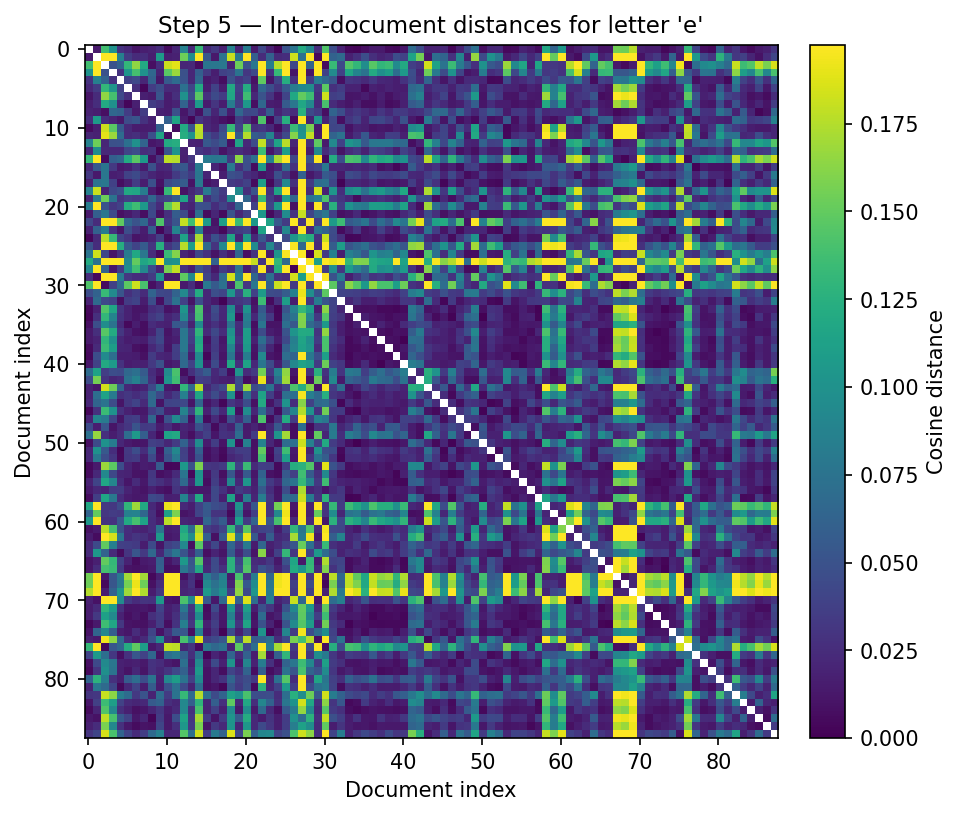
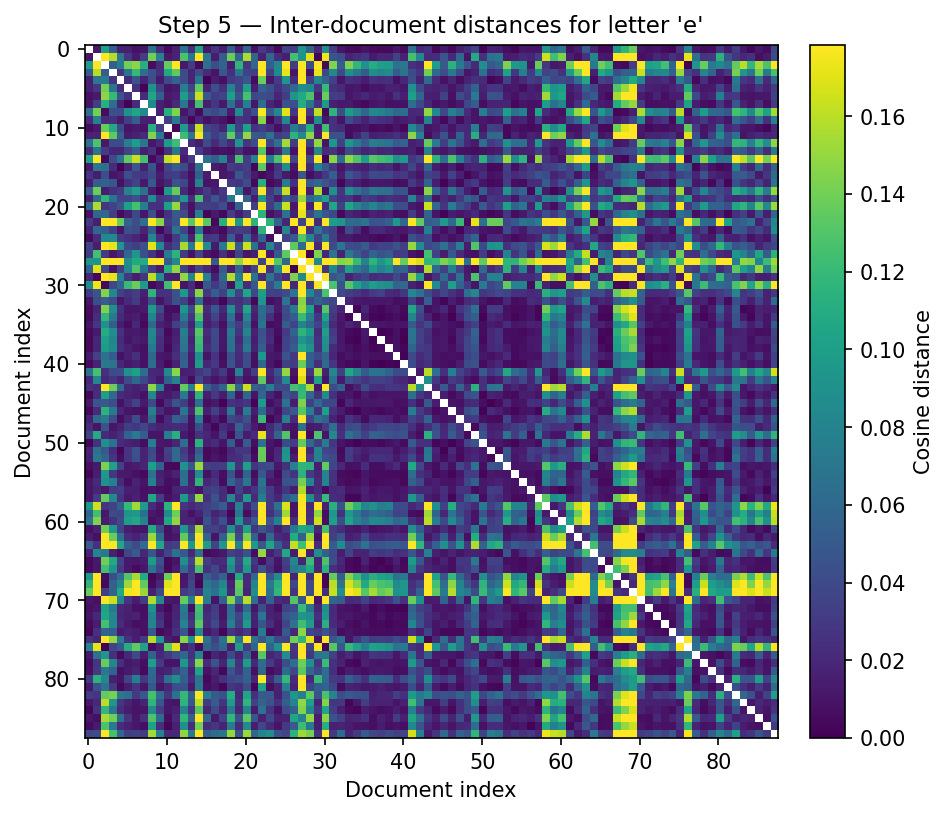
fix plots of corpus-2 and

diff --git a/scripts/run_acontrario.py b/scripts/run_acontrario.py
@@ -60,6 +60,10 @@ DEFAULT_CONFIG: dict = {
             "base_factors": [0.1, 0.15],
             "exponent_range": [-5, 3],
         },
+        # Which weight matrix to use for the hierarchical ordering & graph
+        # distances: "average" (roman+italic)/2, "roman", or "italic".
+        # Falls back gracefully when the chosen style is unavailable.
+        "ordering": "average",
     },
     "printers": {
         "colors": {},
@@ -81,6 +85,12 @@ DEFAULT_CONFIG: dict = {
             "xticks_rotation": "vertical",
             "colorbar": True,
             "colorbar_step": 5,
+            "marker_edge_color": "white",
+            "marker_edge_width": 0.4,
+            "marker_sizes": {},
+            "legend_marker_size": 250,
+            "legend_fontsize": "xx-large",
+            "legend_loc": "upper right",
         },
         "graph": {
             "figsize": [20, 15],
@@ -93,6 +103,10 @@ DEFAULT_CONFIG: dict = {
             "font_size": 9,
             "shift_dir": "nw",
             "shift_len": 0.1,
+            "edge_width": 0.5,
+            "legend_marker_size": 120,
+            "legend_fontsize": "x-large",
+            "legend_loc": "upper right",
         },
     },
     "output": {
@@ -118,7 +132,7 @@ def load_config(config_path: Path | None) -> dict:
     """Load YAML config, falling back to built‑in defaults."""
     config = DEFAULT_CONFIG.copy()
     if config_path and config_path.exists():
-        with open(config_path) as f:
+        with open(config_path, encoding="utf-8") as f:
             user = yaml.safe_load(f) or {}
         config = _deep_merge(config, user)
     return config
@@ -147,11 +161,25 @@ def _intersect_books(
 def _shorten_printer_names(
     names: np.ndarray,
     mode: str = "last_word",
+    short_names: dict | None = None,
 ) -> np.ndarray:
-    """Shorten printer names for display."""
-    if mode == "last_word":
-        return np.array([n.split()[-1] if n else n for n in names])
-    return names  # "full" or unrecognised → keep as‑is
+    """Shorten printer names for display.
+
+    If *short_names* is a dict, it is used as an explicit lookup table
+    (full name → display name).  Any name not in the dict falls through
+    to the *mode* rule.
+    """
+    if short_names is None:
+        short_names = {}
+    out = []
+    for n in names:
+        if n in short_names:
+            out.append(short_names[n])
+        elif mode == "last_word" and n:
+            out.append(n.split()[-1])
+        else:
+            out.append(n)
+    return np.array(out)
 
 
 # ---------------------------------------------------------------------------
@@ -264,9 +292,16 @@ def process_corpus(
 
     # ---- Shorten printer names for display ----
     short_mode = config["printers"].get("short_name", "last_word")
-    printers = _shorten_printer_names(printers_raw, short_mode)
+    short_names = config["printers"].get("short_names", None)
+    printers = _shorten_printer_names(printers_raw, short_mode, short_names)
     printer_to_color = config["printers"].get("colors", {})
     remark_to_shape = config["remarks"]["shapes"]
+
+    # When marker_style is "simple", override all shapes to circles
+    marker_style = config["remarks"].get("marker_style", "by_remark")
+    if marker_style == "simple":
+        remark_to_shape = {k: "o" for k in remark_to_shape}
+        remark_to_shape["nan"] = "o"
 
     # ---- Load adjacencies ----
     ds_rm = ds_it = None
@@ -329,7 +364,32 @@ def process_corpus(
     w_it = (np.where(n1hat_it > 0, n1hat_it / n_it, 0)
             if n1hat_it is not None else None)
 
-    # Combined weight for ordering
+    # ---- Select weight matrix for ordering / graph distances ----
+    ordering_mode = config["analysis"].get("ordering", "average")
+    if ordering_mode == "roman":
+        if w_rm is not None:
+            w_order = w_rm
+        else:
+            print("  WARNING: ordering='roman' but no roman data; "
+                  "falling back to italic")
+            w_order = w_it
+    elif ordering_mode == "italic":
+        if w_it is not None:
+            w_order = w_it
+        else:
+            print("  WARNING: ordering='italic' but no italic data; "
+                  "falling back to roman")
+            w_order = w_rm
+    else:  # "average" (default)
+        if w_rm is not None and w_it is not None:
+            w_order = (w_rm + w_it) / 2
+        elif w_rm is not None:
+            w_order = w_rm
+        else:
+            w_order = w_it
+    print(f"  Ordering mode: {ordering_mode}")
+
+    # Combined weight for filtering isolated books (uses all available data)
     if w_rm is not None and w_it is not None:
         w_combined = w_rm + w_it
     elif w_rm is not None:
@@ -343,8 +403,8 @@ def process_corpus(
     if n_isolated:
         print(f"\n  {n_isolated} isolated book(s) removed")
 
-    metric = 1 - w_combined / (1 + (w_rm is not None and w_it is not None))
-    # Ensure metric is valid (cap at 1)
+    metric = 1 - w_order
+    # Ensure metric is valid (cap at [0, 1])
     metric = np.clip(metric, 0, 1)
     idxs_order = hierarchical_olo_order(metric)
 
@@ -380,6 +440,12 @@ def process_corpus(
                 xticks_rotation=mat_cfg["xticks_rotation"],
                 colorbar=mat_cfg["colorbar"],
                 colorbar_step=mat_cfg["colorbar_step"],
+                marker_edge_color=mat_cfg.get("marker_edge_color", "white"),
+                marker_edge_width=mat_cfg.get("marker_edge_width", 0.4),
+                marker_sizes=mat_cfg.get("marker_sizes", {}),
+                legend_marker_size=mat_cfg.get("legend_marker_size", 250),
+                legend_fontsize=mat_cfg.get("legend_fontsize", "xx-large"),
+                legend_loc=mat_cfg.get("legend_loc", "upper right"),
             )
             _save_figure(fig, f"matrix_{style_name}", save_dir, formats, dpi)
             plt.close(fig)

diff --git a/src/acontrario/visualization.py b/src/acontrario/visualization.py
@@ -77,6 +77,12 @@ def plot_matrix(
     im_kw: dict | None = None,
     text_kw: dict | None = None,
     values_format: str | None = None,
+    marker_edge_color: str = "white",
+    marker_edge_width: float = 0.4,
+    marker_sizes: dict | None = None,
+    legend_marker_size: float = 250,
+    legend_fontsize: str = "xx-large",
+    legend_loc: str = "upper right",
 ) -> mpl.figure.Figure:
     """Discrete heatmap of a score matrix with optional printer overlays.
 
@@ -111,6 +117,9 @@ def plot_matrix(
 
     # ---- Printer / remark overlay markers ----
     if printers is not None:
+        if marker_sizes is None:
+            marker_sizes = {}
+        _default_marker_size = 100
         if printer_to_color is None:
             cmap_pr = plt.get_cmap("tab10")
             printer_to_color = {
@@ -128,10 +137,12 @@ def plot_matrix(
             remark = "known" if remark == "nan" else remark
             color = printer_to_color.get(printer, "gray")
             shape = remark_to_shape.get(remark, "o")
+            s = marker_sizes.get(remark, _default_marker_size)
             ax.scatter(
                 i, i, color=color, marker=shape, label=None,
-                edgecolors="white",
-                s=50 if shape == "D" else 100,
+                edgecolors=marker_edge_color,
+                linewidths=marker_edge_width,
+                s=s,
             )
 
     # ---- Cell values ----
@@ -176,13 +187,18 @@ def plot_matrix(
             if printer == "unknown":
                 continue
             ax.scatter([], [], color=printer_to_color.get(printer, "gray"),
-                       marker="o", label=printer, edgecolors="white", s=250)
-        for remark in ["known", "hidden", "new"]:
-            shape = remark_to_shape.get(remark, "o")
-            ax.scatter([], [], color="gray", marker=shape,
-                       label=f"$\\it{{{remark}}}$", edgecolors="white",
-                       s=150 if shape == "D" else 300)
-        ax.legend(loc="upper right", fontsize="xx-large")
+                       marker="o", label=printer, edgecolors=marker_edge_color,
+                       s=legend_marker_size, linewidths=marker_edge_width)
+        # Only show remark legend entries when shapes actually differ
+        unique_shapes = set(remark_to_shape.values())
+        if len(unique_shapes) > 1:
+            for remark in ["known", "hidden", "new"]:
+                shape = remark_to_shape.get(remark, "o")
+                ax.scatter([], [], color="gray", marker=shape,
+                           label=f"$\\it{{{remark}}}$",
+                           edgecolors=marker_edge_color,
+                           s=legend_marker_size * 0.6 if shape == "D" else legend_marker_size * 1.2)
+        ax.legend(loc=legend_loc, fontsize=legend_fontsize)
 
     ax.set_ylim((n_classes - 0.5, -0.5))
     plt.setp(ax.get_xticklabels(), rotation=xticks_rotation)
@@ -206,6 +222,10 @@ _DFLT_GRAPH_KW = dict(
     tf_geom=np.eye(2),
     cmap=None,
     figsize=(8, 8),
+    edge_width=0.5,
+    legend_marker_size=120,
+    legend_fontsize="x-large",
+    legend_loc="upper right",
 )
 
 
@@ -306,7 +326,7 @@ def plot_graph(
         ec = edge_cmap(ln)[:3]
         nx.draw_networkx_edges(
             G, dict(enumerate(pts)), edgelist=[(u, v)],
-            width=0.5, alpha=wt / wt_max, edge_color=ec, ax=ax,
+            width=kw["edge_width"], alpha=wt / wt_max, edge_color=ec, ax=ax,
         )
 
     # ---- Vertex markers ----
@@ -337,13 +357,17 @@ def plot_graph(
         if printer == "unknown":
             continue
         ax.scatter([], [], color=printer_to_color.get(printer, "gray"),
-                   marker="o", label=printer, edgecolors="white", s=120)
-    for remark in ["known", "hidden", "new"]:
-        shape = remark_to_shape.get(remark, "o")
-        ax.scatter([], [], color="gray", marker=shape,
-                   label=f"$\\it{{{remark}}}$", edgecolors="white",
-                   s=70 if shape == "D" else 150)
-    ax.legend(loc="upper right", fontsize="x-large")
+                   marker="o", label=printer, edgecolors="white",
+                   s=kw["legend_marker_size"])
+    # Only show remark legend entries when shapes actually differ
+    unique_shapes = set(remark_to_shape.values())
+    if len(unique_shapes) > 1:
+        for remark in ["known", "hidden", "new"]:
+            shape = remark_to_shape.get(remark, "o")
+            ax.scatter([], [], color="gray", marker=shape,
+                       label=f"$\\it{{{remark}}}$", edgecolors="white",
+                       s=kw["legend_marker_size"] * 0.6 if shape == "D" else kw["legend_marker_size"] * 1.25)
+    ax.legend(loc=kw["legend_loc"], fontsize=kw["legend_fontsize"])
     ax.set_aspect("auto")
     ax.axis("off")
     return fig

diff --git a/src/image_processing/tools/normality.py b/src/image_processing/tools/normality.py
@@ -2,6 +2,8 @@
 #     Routledge, 2017.
 
 import math
+import warnings
+
 import numpy as np
 
 from scipy.stats import anderson, ks_1samp, norm, normaltest, shapiro
@@ -16,7 +18,13 @@ def anderson_darling(x: np.ndarray) -> float:
     Returns:
         p-value.
     """
-    A2 = anderson(x, dist='norm').statistic
+    # We only need the test statistic; the p-value is computed manually
+    # from reference tables below.  Silence the SciPy >=1.17 FutureWarning
+    # that asks callers to choose a p-value method.
+    with warnings.catch_warnings():
+        warnings.filterwarnings("ignore", category=FutureWarning,
+                                message=".*method.*")
+        A2 = anderson(x, dist='norm').statistic
     n = len(x)
     # Modified statistic [1, Table 4.7]
     A2 = A2*(1 + (.75/n) + 2.25/(n**2))

diff --git a/scripts/typographic_distances.py b/scripts/typographic_distances.py
@@ -69,7 +69,7 @@ def load_config(config_path: Path | None) -> dict:
     """Load configuration from YAML file, falling back to defaults."""
     config = DEFAULT_CONFIG.copy()
     if config_path and config_path.exists():
-        with open(config_path) as f:
+        with open(config_path, encoding="utf-8") as f:
             user_config = yaml.safe_load(f)
         if user_config:
             # Deep merge
@@ -103,7 +103,7 @@ def load_metadata(corpus_dir: Path) -> pd.DataFrame | None:
     print(f"  Loading metadata from: {csv_path.name}")
     
     try:
-        df = pd.read_csv(csv_path)
+        df = pd.read_csv(csv_path, encoding="utf-8")
         doc_col = "Document"
         printer_col = "Printer"
         
